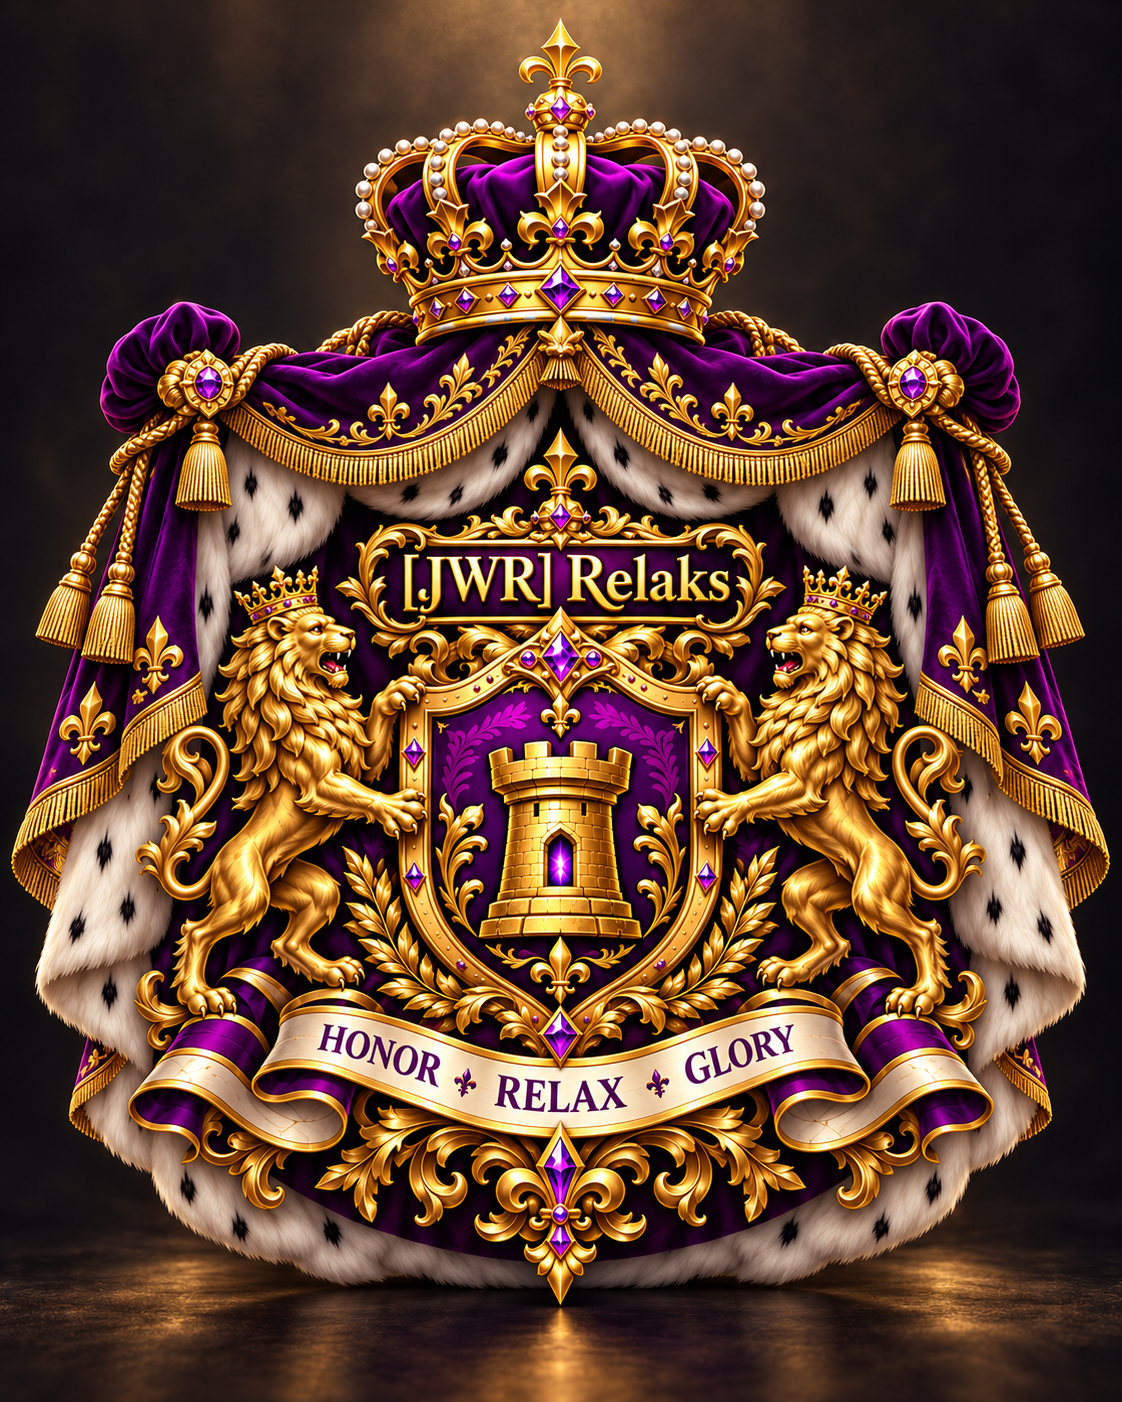
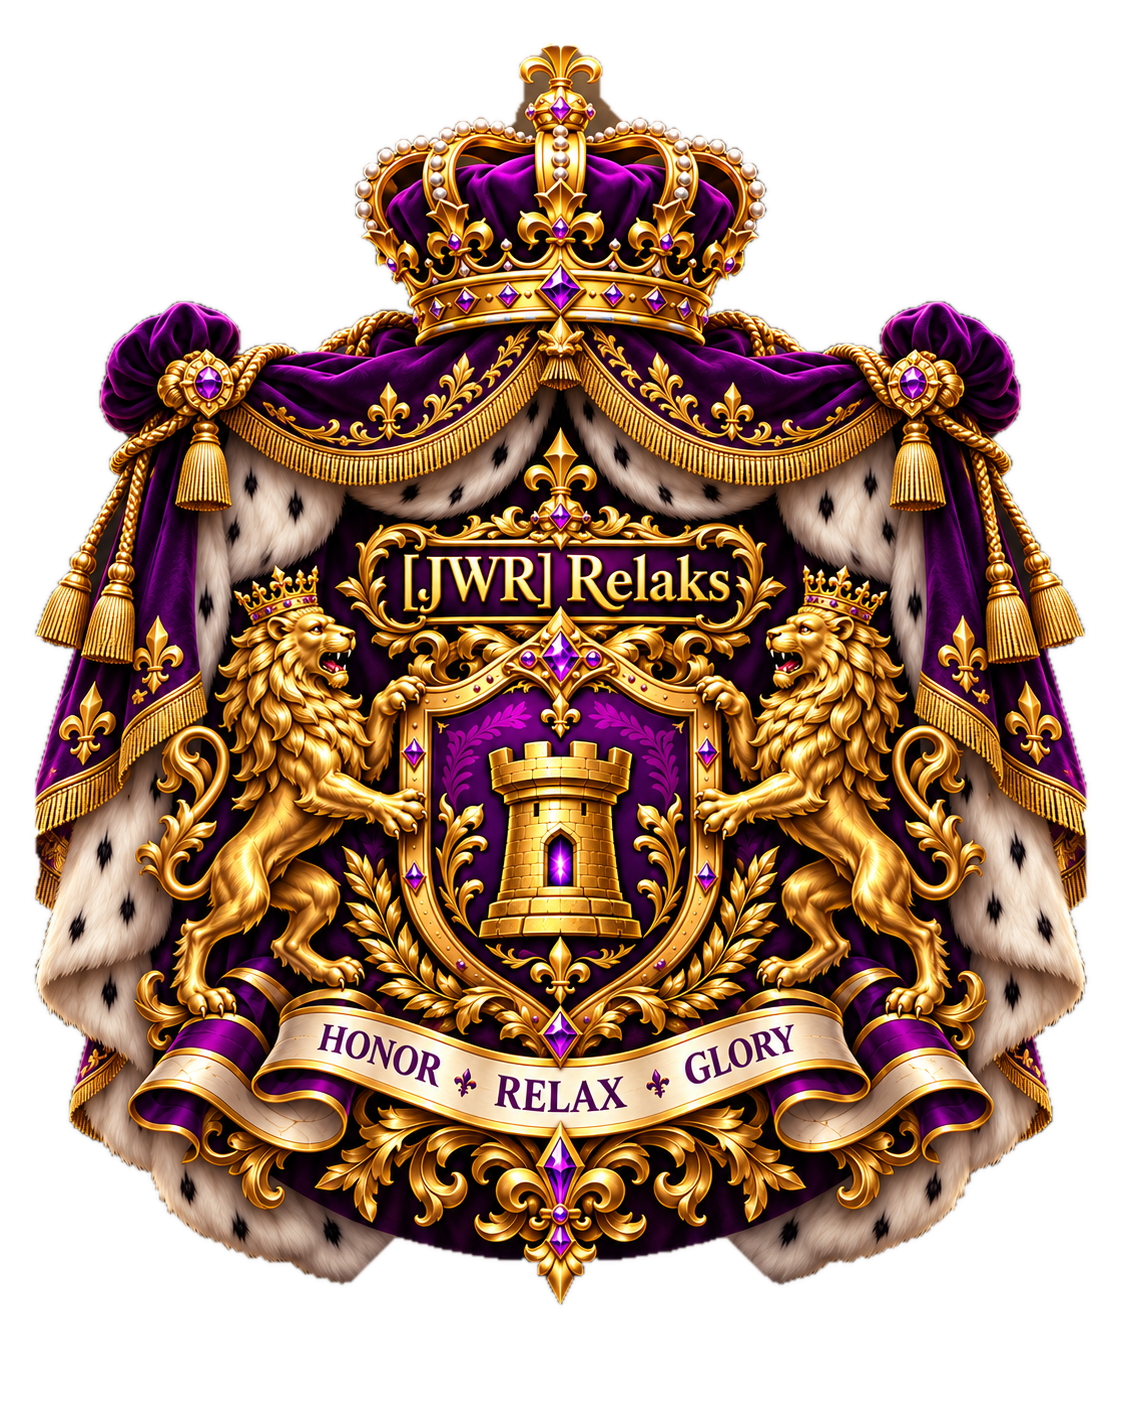
Royal Sala V2.7 - castle theme and transparent crest

diff --git a/jwr_royal_theme.css b/jwr_royal_theme.css
@@ -134,3 +134,64 @@ body.guide-page,
   border: 1px solid rgba(214,168,78,.55) !important;
   border-radius: 14px;
 }
+
+/* JWR ROYAL CASTLE HALL V25 BEGIN */
+/* Actual castle architecture throughout the viewport; no table or wheel data in image. */
+html { min-height: 100%; background-color: #160e12; }
+body {
+  min-height:100vh;
+  background-image: linear-gradient(180deg,rgba(10,6,10,.12) 0%,rgba(19,9,15,.18) 41%,rgba(10,5,10,.40) 85%,rgba(9,4,9,.56) 100%), url("./jwr_royal_assets/royal_full_bg.png") !important;
+  background-position: center top, center top !important;
+  background-size: cover, cover !important;
+  background-attachment: fixed, fixed !important;
+  background-repeat: no-repeat,no-repeat !important;
+  background-color:#160e12 !important;
+}
+body::before { display:none !important; }
+/* Prevent a heavy panel over the entire hall. Panels themselves remain opaque for readability. */
+.container { background:transparent !important; box-shadow:none !important; }
+.topbar {background:linear-gradient(180deg,rgba(51,19,61,.98),rgba(18,8,27,.98)) !important;border-bottom:2px solid #c69c4d !important;}
+.meta { text-shadow:0 2px 4px #000,0 0 10px #000; }
+.container h1,.container h2,.container h3,.container .title { text-shadow:0 2px 5px #0a0610,0 0 12px #0a0610; }
+/* Only frame existing blocks. Never overwrite point/limit backgrounds. */
+.wheel-panel,.wheel-container,.winners-panel,.archive-panel,.score-panel,.details-panel {box-shadow:0 0 0 1px #c89c5988,0 10px 25px #08030788 !important;}
+/* No broad table td background/color overrides: preserve gold/green/blue/red scoring. */
+@media(max-width:750px) {body{background-attachment:scroll,scroll !important; background-size:auto 100vh,auto 100vh !important;}}
+/* JWR ROYAL CASTLE HALL V25 END */
+
+/* JWR ROYAL SALA V26 - DECORATIVE ONLY; preserve original scoring colors */
+/* This is an additive stylesheet segment in jwr_royal_theme.css. */
+:root{--jwr-v26-gold:#d9ab56;--jwr-v26-light:#ffebac;--jwr-v26-purple:#351143}
+.topbar{background:linear-gradient(180deg,#37123eea 0%,#200c2bea 64%,#0b0912f7 100%)!important;border-bottom:3px double #dba85b!important;box-shadow:0 4px 13px #050107c4!important}
+.topbar-inner{max-width:1500px!important}
+.nav-item{background:linear-gradient(180deg,#401649,#240a30)!important;border-left:1px solid #6e4b2d!important;border-right:1px solid #ac7a37!important;color:#ffe5a6!important;font-family:Georgia,'Times New Roman',serif!important;font-weight:700!important;text-shadow:0 1px 2px #000!important}
+.nav-item.active,.nav-item:hover{background:linear-gradient(180deg,#713779,#361342)!important;color:#fff1c4!important;box-shadow:inset 0 0 13px #e8a94f62!important}
+.container{background:transparent!important;box-shadow:none!important}
+.meta{color:#ffdfa0!important;text-align:center;text-shadow:0 2px 5px #000,0 0 14px #170814!important;font-weight:700}
+/* Velvet gilded heading strips for every results tab, not just Crypts. */
+.container .controls:has(> .title){display:flex;justify-content:center;align-items:center;min-height:41px;margin:12px auto 7px!important;width:min(100%,710px)!important;position:relative;isolation:isolate}
+.container .controls > .title{box-sizing:border-box;display:block!important;text-align:center!important;width:min(100%,660px);margin:0!important;padding:7px 44px!important;color:#ffe4a1!important;font-family:Georgia,'Times New Roman',serif!important;font-size:clamp(20px,1.6vw,27px)!important;line-height:1.22!important;background:linear-gradient(180deg,rgba(101,44,109,.95),rgba(39,11,55,.98) 55%,rgba(29,9,42,.98))!important;border:2px solid #d4a252!important;box-shadow:0 0 0 2px #210c2c,0 6px 16px #0703079c,inset 0 2px 11px #f4be4847!important;clip-path:polygon(0 0,97% 0,100% 50%,97% 100%,0 100%,3% 50%);text-shadow:0 2px 3px #19051b!important}
+.container .controls > .title::before{content:'❧'!important;margin-right:16px;color:#efc777;font-size:.7em}
+.container .controls > .title::after{content:'❧'!important;margin-left:16px;color:#efc777;font-size:.7em;display:inline!important}
+.legend{max-width:790px;margin:0 auto 12px!important;display:flex;flex-wrap:wrap;justify-content:center;gap:6px 16px;padding:7px 12px!important;border-top:1px solid #e6b75a54;border-bottom:1px solid #e6b75a54;background:linear-gradient(90deg,transparent,#170d15b0 16%,#170d15b0 84%,transparent);color:#fff6e7!important;text-shadow:0 2px 4px #000}
+/* Decorative gold edges only. Do not touch table cell backgrounds or text. */
+.table-wrap,.history-wrap{border:2px solid #d9a85c!important;border-radius:6px!important;box-shadow:0 0 0 2px #240c21,0 0 0 3px #ae7b3ea8,0 13px 24px #0009!important;overflow:auto!important}
+.v177b-wheel-frame{border:2px solid #ba8a47!important;border-radius:9px!important;box-shadow:0 0 0 2px #270b23,0 0 0 3px #bd9a58a6,0 10px 22px #0009!important}
+.v177b-table-column,.v248-wheel-column{min-width:0}
+.table-limit-center{text-shadow:0 2px 5px #000,0 0 8px #000!important}
+/* Crest currently has dark baked-in rectangle. Soft fade its edges without changing the image file. */
+img[src*='herb_jwr_relaks_honor_relax_glory']{display:block!important;max-width:min(270px,85vw)!important;width:auto!important;height:auto!important;object-fit:contain!important;margin-left:auto!important;margin-right:auto!important;-webkit-mask-image:radial-gradient(ellipse 76% 73% at 50% 50%,#000 63%,transparent 99%);mask-image:radial-gradient(ellipse 76% 73% at 50% 50%,#000 63%,transparent 99%);filter:drop-shadow(0 4px 9px #200b17b0)!important}
+@media(max-width:750px){.container .controls>.title{padding:8px 18px!important}.container .controls>.title::before,.container .controls>.title::after{display:none!important}.legend{gap:5px 9px}.nav-item{font-size:12px}}
+/* Intentionally NO style overrides on td/tr .score-* or colored percentage cells. */
+/* JWR ROYAL SALA V26 END */
+
+/* JWR ROYAL V27 TRANSPARENT CREST */
+img[src*="herb_jwr_relaks_honor_relax_glory"]{
+  -webkit-mask-image:none!important;
+  mask-image:none!important;
+  filter:drop-shadow(0 5px 8px rgba(20,8,12,.7))!important;
+  background:transparent!important;
+  object-fit:contain!important;
+}
+/* Keep rankings cells, colored limits, Guide and wheel logic untouched. */
+/* END JWR ROYAL V27 */
